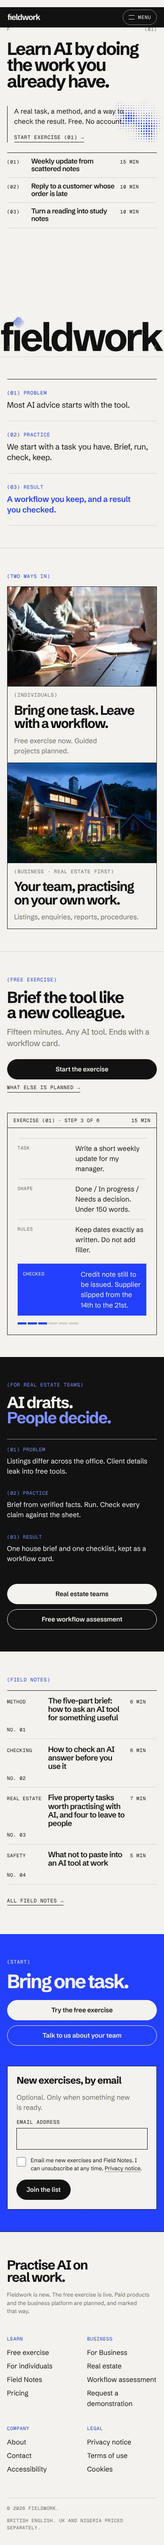
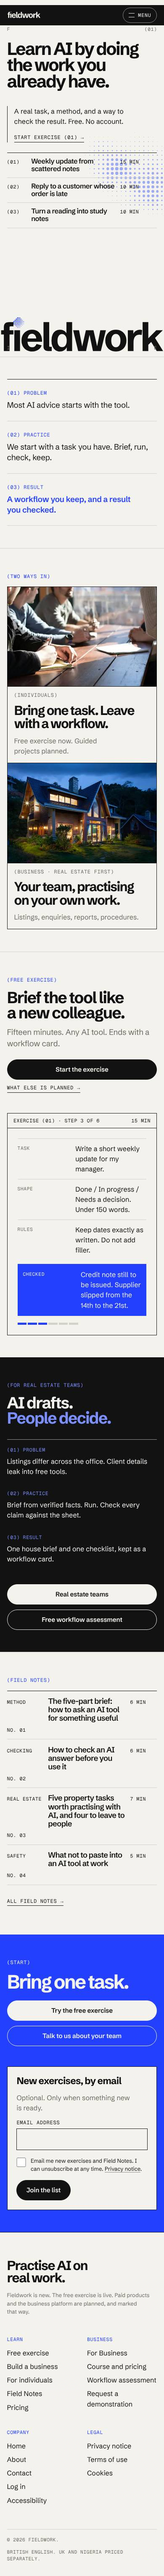
Round 5: docs, QA reports and screenshots updated; builder focus fix; hero alignment

Changed region(s): [[0.0, 0.1248, 1.0, 0.9987], [0.0308, 0.0, 1.0, 0.0936], [0.1846, 0.9675, 0.2154, 0.9987]]

diff --git a/src/styles/pages.css b/src/styles/pages.css
@@ -24,7 +24,7 @@
 .page-hero--wide h1 { max-width: 17ch; }
 .page-hero__dots { position: absolute; z-index: 0; right: -8%; top: 0; width: min(50vw, 44rem); pointer-events: none; opacity: 0.9; }
 .page-hero .lede { max-width: 30rem; }
-.page-hero__grid { display: grid; gap: var(--s-6); align-items: end; }
+.page-hero__grid { display: grid; gap: var(--s-6); align-items: start; }
 @media (min-width: 62rem) { .page-hero__grid { grid-template-columns: minmax(0, 1.4fr) minmax(0, 1fr); gap: var(--s-8); } }
 .badge-line { display: flex; flex-wrap: wrap; gap: var(--s-2) var(--s-3); align-items: center; margin-bottom: var(--s-4); }
 .hero__note { font: 400 0.72rem/1.5 var(--font-mono); letter-spacing: 0.05em; text-transform: uppercase; color: var(--grey); margin-top: var(--s-4); max-width: 34rem; }

diff --git a/src/components/build/BusinessBuilder.tsx b/src/components/build/BusinessBuilder.tsx
@@ -23,7 +23,8 @@ export function BusinessBuilder() {
   const { session } = useSession();
   const palette = PALETTES.find((p) => p.id === b.brand.palette) ?? PALETTES[0];
 
-  useEffect(() => { headingRef.current?.focus(); }, [step]);
+  const firstRun = useRef(true);
+  useEffect(() => { if (firstRun.current) { firstRun.current = false; return; } headingRef.current?.focus(); }, [step]);
   const patch = (f: (s: BuilderState) => BuilderState) => { if (!started.current) { started.current = true; track('builder_started'); } setB(f); };
   const toggle = (list: string[], v: string) => (list.includes(v) ? list.filter((x) => x !== v) : [...list, v]);
 

diff --git a/docs/website/SEO-KEYWORD-MAP.md b/docs/website/SEO-KEYWORD-MAP.md
@@ -22,7 +22,7 @@ Intent key: I = informational, C = commercial investigation, T = transactional/l
 | `/learn` | AI exercise free; free AI practice | I | both | not measured |
 | `/learn/first-workflow` | free AI exercise; AI prompt template for work; how to write a good AI prompt; five-part prompt; reusable AI workflow | I/T (signup) | both | not measured |
 | `/business` | AI training for employees; AI training for teams; practical AI training for staff | C/T | UK: "AI training for staff UK"; Nigeria: "AI training for companies Nigeria" (**verify**) | not measured |
-| `/business/real-estate` | AI training for estate agents; AI for letting agents; AI for property listings; AI for real estate teams | C/T | UK: estate agents, letting agents, lettings; Nigeria: real estate firms, property agents (terms differ; **verify**) | not measured |
+| `/business` | AI training for estate agents; AI for letting agents; AI for property listings; AI for real estate teams | C/T | UK: estate agents, letting agents, lettings; Nigeria: real estate firms, property agents (terms differ; **verify**) | not measured |
 | `/business/assessment` | AI readiness assessment real estate; AI workflow assessment for agencies | C/T | both | not measured |
 | `/pricing` | (mostly navigational, low SEO value; keep honest) | N | both | not measured |
 | `/field-notes` | practical AI guides; AI tips for work | I | both | not measured |
@@ -43,7 +43,7 @@ The root layout template is `'%s | Fieldwork'`; the home page title renders with
 | `/learn` | Learn: the free exercise and what is planned \| Fieldwork | 56 | 136 | ok |
 | `/learn/first-workflow` | Free exercise: turn a messy task into a reusable AI workflow \| Fieldwork | 72 | 157 | long |
 | `/business` | Fieldwork for Business: practical AI training for your team \| Fieldwork | 71 | 179 | long; brand repeated |
-| `/business/real-estate` | AI training for real estate teams: listings, enquiries, procedures \| Fieldwork | 78 | 188 | long |
+| `/business` | AI training for real estate teams: listings, enquiries, procedures \| Fieldwork | 78 | 188 | long |
 | `/business/assessment` | Real estate AI workflow assessment \| Fieldwork | 46 | 179 | ok |
 | `/pricing` | Pricing and availability \| Fieldwork | 36 | 134 | ok |
 | `/field-notes` | Field Notes: practical AI guides \| Fieldwork | 44 | 135 | ok |
@@ -73,7 +73,7 @@ Today: 4 notes, all published 2026-10-14. A cluster plan, ordered by usefulness 
 
 **Pillar C: Real estate (business)**
 - Existing: `property-ai-tasks`. Planned: "Viewing feedback to vendors: a safe workflow"; "Listing copy from verified facts: a checklist"; "What to write in an AI-use policy for an estate agency" (no legal advice; point to a solicitor/professional body); "New-starter checklists from your procedures".
-- Internal links: to `/business/real-estate`, `/business/assessment`.
+- Internal links: to `/business`, `/business/assessment`.
 
 **Pillar D: Tool choice (planned, only after testing)**
 - Planned series "Choosing a tool for one task". Rule: publish only what was actually tested, with date and version; the brand strategy forbids implying untested comparisons.
@@ -86,7 +86,7 @@ Cadence: set by what the founder can maintain without quality loss. Not measured
 ## 5. Internal linking rules
 
 1. Every Field Note links to the free exercise (a `consumer_cta_clicked` label `article` button exists) and to at least one related note (`related` field).
-2. Real estate content links to `/business/real-estate`, then the assessment.
+2. Real estate content links to `/business`, then the assessment.
 3. `/pricing` links to the exercise, assessment and contact. The platform is mentioned only as "planned".
 4. Legal and utility pages stay in the footer, not in the body.
 5. Avoid orphaning `/learn`: it is not in the header or footer navigation (see IA doc).
@@ -101,7 +101,7 @@ None is emitted today (no `ld+json` in `src`). Suggested, once a domain and lega
 | Site-wide | `Organization` (name, url, logo from `public/brand/...`, sameAs for real social URLs only) and `WebSite` | Do not add `Organization` details (address, contact points) until real and confirmed |
 | `/field-notes/[slug]` | `Article` (headline, datePublished, dateModified, author as Organization or named person, image) | Author must be real; do not invent a person |
 | `/learn/first-workflow` | `HowTo` is largely deprecated for rich results (**verify**); use `WebPage`/`LearningResource` only if useful | Do not mark up anything not visible on the page |
-| `/business/real-estate`, `/business` | `Service` (areaServed UK, Nigeria) | Only when services are actually offered and legal entity is set; no price |
+| `/business`, `/business` | `Service` (areaServed UK, Nigeria) | Only when services are actually offered and legal entity is set; no price |
 | Breadcrumbs | `BreadcrumbList` on nested pages | Match visible breadcrumbs if added |
 | FAQs | `FAQPage` is limited in visibility today (**verify**); do not add for rich results |
 | Never | `Review`/`AggregateRating`, `Product` with price, `Course` with fabricated provider/offers | No reviews or products exist |

diff --git a/qa/FINAL-QA-REPORT.md b/qa/FINAL-QA-REPORT.md
@@ -1,20 +1,23 @@
 # Final QA report
 
-Run on 17 October 2026 (after the Concept 2 rebuild) against a production build (`next build`, `next start`) in Chromium (Playwright 1.56). Raw results: `browser-results.json`, `axe-results.json`, `link-results.json`. Screenshots: `screenshots/` (1440 and 390 wide). Re-run commands: `docs/operations/QA-HOW-TO-RERUN.md`.
+Run on 18 October 2026 (after the round 5 changes: entry page, transitions, business page, pricing, login, dashboards, builder, pop-ups) against a production build (`next build`, `next start`) in Chromium (Playwright 1.56). Raw results: `browser-results.json`, `axe-results.json`, `link-results.json`. Screenshots: `screenshots/` (1440 and 390 wide). Re-run commands: `docs/operations/QA-HOW-TO-RERUN.md`.
 
 ## Results
 | Check | Command | Result |
 |---|---|---|
 | Type check | `npm run typecheck` | Pass |
 | Lint | `npm run lint` | Pass, 0 errors, 0 warnings |
-| Unit tests | `npm test` | 26 of 26 pass (assessment logic, validation, design tokens match palette) |
+| Unit tests | `npm test` | 36 of 36 pass (assessment logic, validation, design tokens match palette) |
 | Production build | `npm run build` | Pass, 25 static pages |
-| Browser behaviour | `node scripts/qa/browser-tests.mjs` | 18 of 18 pass |
-| Accessibility (axe, WCAG 2.0/2.1/2.2 A and AA) | `node scripts/qa/axe.mjs` | 0 violations, 20 routes x 2 viewports |
-| Links and anchors | `node scripts/qa/links.mjs` | 19 pages crawled, 0 problems |
+| Browser behaviour | `node scripts/qa/browser-tests.mjs` | 31 of 31 pass |
+| Accessibility (axe, WCAG 2.0/2.1/2.2 A and AA) | `node scripts/qa/axe.mjs` | 0 violations, 25 routes x 2 viewports |
+| Links and anchors | `node scripts/qa/links.mjs` | 22 pages crawled, 0 problems |
 | Horizontal overflow | `node scripts/qa/overflow.mjs` | None at 390, 768, 1440 on any route |
 
 ## What the browser tests prove
+Round 5 adds: the entry page routes to individuals and business; a loading animation of about a second runs between pages and is skipped with reduced motion; `/business/real-estate` redirects to `/business`; the business page sections are in the requested order and include the USA; the business pop-up appears at 10 seconds and the individuals pop-up at 15 (tested with a fake clock) and each leads to the right page; the course page shows every plan in GBP, NGN and USD; the pricing page puts individuals first; the individuals page has the new hero, build call to action, what we do, more everyday uses and pricing with the photo and list centred together; login (honest not-connected notice, demo mode) leads to the business dashboard; the full Build a business flow runs through to login and the workspace, where documents and Ask AI are locked until the paid preview.
+
+Earlier:
 Every route returns 200 with one h1, a title, no console errors and no broken images; custom 404 with a 404 status; logo returns home; desktop and mobile navigation; Escape closes the mobile menu; skip link and visible focus; reduced motion shows content; the free exercise runs start to finish (copy prompt to clipboard, download the workflow card, state kept in the browser); the assessment produces a report; the market toggle switches GBP and NGN; the contact form validates and, with no adapter configured, says plainly that nothing was saved; a business demo request reaches a mock webhook with the secret header and payload; honeypot submissions are not delivered; the site is noindex by default; no tracker loads without configuration and consent.
 
 ## Defects found and fixed in this round
@@ -24,6 +27,7 @@ Horizontal overflow on the exercise page at 390px; scrollable tables not keyboar
 Real devices; Safari and Firefox; screen readers (VoiceOver, NVDA, TalkBack) and disabled users; slow or lossy networks (the page is light by design but was not throttled); a real deployed environment; a real lead adapter (only a local mock webhook); Resend delivery; analytics with a real provider; load or abuse testing (the rate limiter is in-memory and best-effort); legal correctness of any page; print stylesheets beyond a spot check.
 
 ## Known open items
+0. Login with Google, LinkedIn and Apple is not connected (demo session only); the dashboards, AI assistant and "Ask AI" are previews; the builder uses a curated list and fixed rules, not an AI model; payments are not connected. See `docs/operations/KNOWN-LIMITATIONS-AND-FUTURE-WORK.md` (R5-01 to R5-09).
 1. No email platform or unsubscribe flow exists, although forms say you can unsubscribe. Launch is blocked until one is connected.
 2. Some page titles exceed 60 characters and some descriptions 160; shorter versions are proposed in `docs/website/SEO-METADATA-CHECKLIST.md`.
 3. `NEXT_PUBLIC_LEGAL_ADDRESS` and `NEXT_PUBLIC_COMPANY_NUMBER` are read but no page displays them yet.

diff --git a/docs/FINAL-REPORT.md b/docs/FINAL-REPORT.md
@@ -7,6 +7,11 @@ Branch `claude/exciting-maxwell-l5r45m` of `keneokonjo-web/fieldwork`. Packaged 
 - **Website:** all 19 routes rebuilt on Concept 2: black top bar as navigation (wordmark, pages, slogan), the concept's hero (corner marks, dot terrain, index of starter tasks, giant cropped wordmark), hairline index lists, Problem / Practice / Result rows, short copy throughout. Free guided exercise, workflow assessment, GBP/NGN pricing toggle, Field Notes (4 articles), legal drafts, custom 404, and 29 licensed stock photographs in hairline cells. Tested: typecheck, lint, 26 unit tests, production build, 18 browser behaviour tests, axe 0 violations, link crawl, overflow checks. Details: `qa/FINAL-QA-REPORT.md`, `qa/DESIGN-REVIEW.md`.
 - **Documents written:** brand strategy; design tokens and website design brief (updated to Concept 2); consumer marketing (strategy, 30-day calendar, video kit, social kit, 5 email sequences, pricing assumptions, funnel and metrics, workflow, trackers); corporate sales kit (capability statement, one-pager, 14-slide deck as PPTX, discovery and demo guides, proposal and SOW templates, pricing assumptions, objections, outreach, follow-ups, marketing plan, partnership pack, CRM and pipeline templates); product and operations (PRD for the future onboarding platform, sitemap, architecture, exercise spec, roadmap, SEO keyword map and checklist, analytics spec, deployment guide, domain/DNS/email/social guide, legal review list, launch checklist, repository guide, asset inventory, dependencies, limitations register, CRM definitions, attribution guide, QA re-run guide). PDFs built for the documents that get sent to people. Marketing and sales documents that mention colours and fonts were updated to the new brand; their copy was otherwise not rewritten.
 
+### Round 5 (18 October 2026)
+Entry page (choose individual or business) at `/`, with the previous home at `/home`; a one-second loading animation between pages; `/business` is now the real estate page (sections reordered, USA added, text moved up) and `/business/real-estate` redirects to it; `/business/course` explains the course and shows the business pricing set by the founder (Starter £25, Team £18, Business bundle £12, Enterprise quoted, a £250 to £500 pilot, add-ons) for the UK, Nigeria and the USA; the pricing page shows individuals first; the individuals page was redesigned (new hero, Build a business, what we do, more everyday uses, pricing); pop-ups on both audience pages; login with Google, LinkedIn and Apple buttons (not connected; demo mode); a business dashboard; Build a business (free builder with idea generator, refinement, opportunity assessment, logo and palette choice, product, website outline, sales and operations, launch) and a project workspace with a checklist and locked paid areas. Tested: 36 unit tests, 31 browser tests, axe 0 violations on 25 routes, link crawl, overflow.
+
+**Needs the founder:** USD prices and some NGN prices are proposed (see `docs/sales/BUSINESS-PRICING.md`); the 16 to 50 employee range has no plan; what individuals pay for the full builder (£19 a month is a placeholder); where the individual login should land (currently the workspace); "Basque AI" was read as "Ask AI". Nothing is connected: no real login, accounts, payments, AI assistant or email list.
+
 ## 2. Prepared but not connected
 Lead capture adapters (webhook, Resend, dev file) are coded and the webhook path is tested against a local mock; none is connected to a real destination, so live forms honestly report "not connected". Analytics is coded, consent-gated and off until a domain is configured. Indexing is off until a URL and a flag are set. Payments are not integrated. No email list platform exists.
 

diff --git a/docs/product/SITEMAP-AND-INFORMATION-ARCHITECTURE.md b/docs/product/SITEMAP-AND-INFORMATION-ARCHITECTURE.md
@@ -11,7 +11,7 @@ Derived from `src/app/**`, `src/config/site.ts` (navigation), `src/app/sitemap.t
 | `/learn` | `learn/page.tsx` | static | Hub: free exercise now, planned guided projects | Start first workflow | yes |
 | `/learn/first-workflow` | `learn/first-workflow/page.tsx` | static shell + client component | The free interactive exercise | Complete exercise; email form at end | yes |
 | `/business` | `business/page.tsx` | static | Business offer, three engagement sizes, platform "is a plan" | Request demonstration (`/contact?topic=business`); assessment | yes |
-| `/business/real-estate` | `business/real-estate/page.tsx` | static | Real estate vertical: seven workflows, pilot outline | Demo; assessment | yes |
+| `/business` | `business/real-estate/page.tsx` | static | Real estate vertical: seven workflows, pilot outline | Demo; assessment | yes |
 | `/business/assessment` | `business/assessment/page.tsx` | static shell + client component | Five-minute self-assessment, on-screen report, optional demo request | Complete assessment | yes |
 | `/pricing` | `pricing/page.tsx` | static + client toggle | Honest availability, UK GBP / Nigeria NGN test prices, business scoping, platform waitlist | Free exercise; early access; business contact | yes |
 | `/field-notes` | `field-notes/page.tsx` | static | Article index | Read an article | yes |
@@ -48,7 +48,7 @@ Total public pages: 15 fixed + 4 articles = 19, plus the 404 (matches `qa/link-r
 │   └─ /learn (hub)
 │       └─ /learn/first-workflow   [free exercise]
 ├─ /business
-│   ├─ /business/real-estate
+│   ├─ /business
 │   └─ /business/assessment
 ├─ /pricing
 ├─ /field-notes
@@ -66,7 +66,7 @@ Total public pages: 15 fixed + 4 articles = 19, plus the 404 (matches `qa/link-r
 | Audience | Entry points | Path to conversion |
 |---|---|---|
 | Individual (UK / Nigeria) | `/`, `/individuals`, Field Notes (search/social) | free exercise -> email form -> (future) paid project |
-| Business (real estate) | `/business`, `/business/real-estate`, `property-ai-tasks` note | assessment -> demo request, or contact -> demo request |
+| Business (real estate) | `/business`, `/business`, `property-ai-tasks` note | assessment -> demo request, or contact -> demo request |
 | Both/curious | `/about`, `/pricing` | free exercise or business contact |
 
 ## 5. Conversion points and where they live
@@ -96,3 +96,15 @@ Lead type `business_enquiry` and `assessment_report` are defined in `src/lib/val
 2. A dedicated `/business/onboarding` page is deliberately absent; the platform is not built. Keep the explanation inside `/business` and `/pricing`.
 3. Future pages not yet built: Nigeria-specific landing page(s), guided project pages, a public changelog, press/brand page, thank-you pages for conversion tracking. Not in scope until needed.
 4. Real estate is the only vertical page. Recruitment and others are noted as later in the brand strategy and are not on the site.
+
+## Changes on 18 October 2026
+| Route | Change |
+|---|---|
+| `/` | Now the entry page: choose individual (to `/individuals`) or business (to `/business`) |
+| `/home` | The previous home page; the logo links here |
+| `/business` | Now the real estate page (the earlier business overview page was removed). `/business/real-estate` redirects here permanently |
+| `/business/course` | New: how the real estate course works, and business pricing for the UK, Nigeria and the USA |
+| `/business/dashboard` | New: demo business dashboard (noindex) |
+| `/build` | New: Build a business (free builder) |
+| `/individuals/dashboard` | New: demo project workspace (noindex) |
+| `/login` | New: individual or business, then provider buttons and demo mode (noindex) |

diff --git a/docs/operations/KNOWN-LIMITATIONS-AND-FUTURE-WORK.md b/docs/operations/KNOWN-LIMITATIONS-AND-FUTURE-WORK.md
@@ -117,10 +117,24 @@ Things that are only **prepared, not proven**: the Resend adapter (never run aga
 
 ## Notes on selected items
 
-- **DF-01 (OG image path)**: `src/lib/metadata.ts` uses `/brand/og/og-default.png`. The existing build output contains the same wrong URL. Every social link preview would show no image. One-line fix.
+- **DF-01 (OG image path), fixed 17 October 2026**: `src/lib/metadata.ts` used `/brand/og/og-default.png`; it now points at `/brand/social/og-default.png`. Original note: it used `/brand/og/og-default.png`. The existing build output contains the same wrong URL. Every social link preview would show no image. One-line fix.
 - **NC-06 (email list)**: the forms say "I can unsubscribe at any time" but there is no list platform. Do not send any marketing email, and do not claim a list exists, until one is set up with unsubscribe handling and the consent wording is reviewed.
 - **NR-04**: `src/app/accessibility/page.tsx` says "The full results are in the project's QA report", but `qa/` contains only JSON results and screenshots. Either publish a short QA summary or change the sentence.
 - **PA-03**: the browser test exercises later exercise steps functionally, but axe is run only on initial page loads.
 - **SE-01/SE-02**: security header set is minimal by design (see `TECHNICAL-ARCHITECTURE.md` section 7).
 - **NB-07/NB-08**: reserved names in the code that nothing uses; harmless but do not document them as features.
 - Market statements in other documents (competitor prices, SEO volumes, regulator procedures) are not verified; each is marked "verify" where it appears.
+
+## Round 5 additions (18 October 2026)
+
+| ID | Item | Status | Priority | Dependency |
+|---|---|---|---|---|
+| R5-01 | Log in with Google, LinkedIn and Apple is not connected. The login page offers a demo session stored in the browser only; no account is created and no password or token is handled | not connected | P1 | OAuth provider keys, an auth service, a database, privacy review |
+| R5-02 | Dashboards (business and individual workspace) are previews. Team accounts, progress tracking, saved workflow cards and the AI learning assistant are not built | not built | P1 | Auth, database, product decisions |
+| R5-03 | Build a business uses a curated idea list and fixed rules for the refined idea and the opportunity assessment. There is no AI model and no market data. "Ask AI" and the business-building assistant are not built | not built | P2 | AI provider, safety review |
+| R5-04 | The paid builder and all paid plans cannot be bought: no payment provider. The "Preview the paid view (demo)" toggle only shows layout | not connected | P1 | Payment provider, terms, refund policy |
+| R5-05 | USD prices, some NGN prices and the 16 to 50 employee range are proposed, not set (see `docs/sales/BUSINESS-PRICING.md`) | needs decision | P1 | Founder |
+| R5-06 | US content (Fair Housing, state privacy law) is general and unreviewed; the USA has no tested pilots, data or partners | needs review | P2 | US counsel, local research |
+| R5-07 | Page transition intercepts internal link clicks to show a one-second animation. It does not cover browser back and forward, and is skipped with reduced motion. The delay is deliberate and costs a second per navigation | design choice | P3 | none |
+| R5-08 | The pop-ups appear once per browser session after 10 s (business) and 15 s (individuals). Not A/B tested; may annoy returning visitors | design choice | P3 | Analytics evidence |
+| R5-09 | A custom logo uploaded in the builder is stored in the browser (limit 400 KB) and is never sent anywhere | by design | P3 | none |

diff --git a/docs/sales/BUSINESS-PRICING.md b/docs/sales/BUSINESS-PRICING.md
@@ -1,0 +1,36 @@
+# Business pricing (current)
+
+Set by the founder on 18 October 2026 for the GBP and NGN figures marked **set**. Figures marked **proposed** were filled in to keep the three markets consistent and need the founder's confirmation. Payments are not connected; nothing is on sale until a payment provider and terms are in place. The same data drives the website (`src/content/pricing.ts`, shown on `/pricing` and `/business/course`) and is covered by `tests/builder.test.ts`.
+
+## Plans (per employee, per month)
+| Plan | Who | UK (GBP) | Nigeria (NGN) | USA (USD) | Minimum spend |
+|---|---|---|---|---|---|
+| Starter pack | Any team size | £25 (set) | ₦30,000 (set) | $30 (proposed) | None |
+| Team pack | 11 to 15 employees | £18 (set) | ₦22,000 (set) | $22 (proposed) | £200 a month (set); ₦242,000 and $250 (proposed) |
+| Business bundle | 51 to 200 employees | £12 (set) | ₦14,500 (proposed) | $15 (proposed) | £500 a month (set); ₦600,000 and $650 (proposed) |
+| Enterprise | 200 or more employees | Quoted | Quoted | Quoted | Quoted |
+
+**Gap:** 16 to 50 employees is not covered by a plan. The site says it is quoted, priced between Team and Business, until the founder decides.
+
+**Included**
+- Starter: access to the relevant industry course; AI guided exercises and assessments; personal workflow library; basic completion tracking.
+- Team: everything in Starter; manager dashboard and team progress reports; multiple learning paths; quarterly updates.
+- Business bundle: everything in Team; department-specific learning paths; more detailed reporting; priority support; scheduled programme reviews.
+- Enterprise: priced on employee number, security requirements, integrations, reporting and support commitments.
+
+## Low-risk corporate pilot
+30-day team pilot: one team of up to 10 employees, one training pathway, a closing progress report. **£250 to £500** (set); ₦300,000 to ₦600,000 and $300 to $650 (proposed). The fee can be credited towards an annual contract if the customer approves within an agreed period (period to be agreed).
+
+## Optional premium add-ons
+| Add-on | GBP (set) | NGN (proposed) | USD (proposed) |
+|---|---|---|---|
+| 60-minute group Q&A | £150 | ₦180,000 | $190 |
+| 90-minute tailored workshop | £350 to £600 | ₦420,000 to ₦720,000 | $450 to $750 |
+| Bespoke industry training module | £500 to £1,500 | ₦600,000 to ₦1,800,000 | $650 to $1,900 |
+| Custom workflow implementation | Quoted separately | Quoted separately | Quoted separately |
+
+## Individuals (for reference)
+Free exercise and the basic Build a business flow are free. Guided project £14 one-off, membership £9 a month and the full Business Builder £19 a month (placeholder test prices, not on sale); NGN equivalents are set separately in `src/content/pricing.ts`.
+
+## Open decisions
+USD figures; NGN figures marked proposed; the 16 to 50 employee range; the pilot credit period; whether pilot and plans are billed monthly or annually; refund terms; VAT treatment per market (verify with an accountant).

diff --git a/docs/website/ANALYTICS-EVENT-SPEC.md b/docs/website/ANALYTICS-EVENT-SPEC.md
@@ -51,7 +51,7 @@ Notes
 | Funnel | Steps (events) |
 |---|---|
 | Free exercise | page view `/learn/first-workflow` -> `free_experience_started` -> `step_completed` (step = "Write the brief") -> `step_completed` (step = "Check it") -> `free_experience_completed` -> `email_signup_submitted` (location `free-exercise-complete`) |
-| Business | page view `/business` or `/business/real-estate` -> `business_cta_clicked` -> page view `/contact` or `/business/assessment` -> `assessment_started` -> `assessment_completed` -> `demo_request_submitted` |
+| Business | page view `/business` or `/business` -> `business_cta_clicked` -> page view `/contact` or `/business/assessment` -> `assessment_started` -> `assessment_completed` -> `demo_request_submitted` |
 | Email list | `email_signup_submitted` by `location`: `home-final`, `individuals`, `pricing`, `pricing-platform`, `free-exercise-complete` |
 
 Provider-specific custom properties usually need registering in the provider's settings (**verify** for the chosen provider).
@@ -80,3 +80,12 @@ Provider-specific custom properties usually need registering in the provider's s
 ## 8. QA
 
 Tested: no analytics script requests without configuration or consent (browser test). Not tested: events arriving at a real provider; banner behaviour with analytics configured (needs `NEXT_PUBLIC_PLAUSIBLE_DOMAIN` set at build time; the QA scripts do not set it). Test plan: set the variable on a preview, grant consent, trigger each event, confirm in the provider's live view, then decline and confirm nothing is sent.
+
+## Added 18 October 2026
+| Event | Fires when | Properties | Where |
+|---|---|---|---|
+| `builder_started` | First edit in Build a business | none | `BusinessBuilder.tsx` |
+| `builder_launch_clicked` | "Launch and improve" pressed | none | `BusinessBuilder.tsx` |
+| `popup_cta_clicked` | The call to action in a timed pop-up is clicked | `location=popup`, `label` = storage key | `TimedPopup.tsx` |
+| `login_started` | Log in link clicked, or a role chosen on the login page | `audience` | header, `LoginPanel.tsx` |
+| `pricing_viewed` | Now also fires on the business pricing component | `audience=business` | `BusinessPricing.tsx` |

diff --git a/docs/website/SEO-METADATA-CHECKLIST.md b/docs/website/SEO-METADATA-CHECKLIST.md
@@ -20,8 +20,8 @@ Version 0.1, 14 October 2026. Status values: Done (in code and visible in the ex
 | # | Check | Status | Action |
 |---|---|---|---|
 | B1 | One unique title and description per page | Done | `pageMetadata()` on every page; see SEO-KEYWORD-MAP section 3 |
-| B2 | Titles at or under about 60 chars | Open | Over: `/individuals` 66, `/learn/first-workflow` 72, `/business` 71, `/business/real-estate` 78, `five-part-brief` 75, `property-ai-tasks` 85 |
-| B3 | Descriptions at or under about 160 chars | Open | Over: `/individuals` 205, `/business` 179, `/business/assessment` 179, `/business/real-estate` 188 |
+| B2 | Titles at or under about 60 chars | Open | Over: `/individuals` 66, `/learn/first-workflow` 72, `/business` 71, `/business` 78, `five-part-brief` 75, `property-ai-tasks` 85 |
+| B3 | Descriptions at or under about 160 chars | Open | Over: `/individuals` 205, `/business` 179, `/business/assessment` 179, `/business` 188 |
 | B4 | No duplicated brand in title | Open | `/about` and `/contact` render "About Fieldwork \| Fieldwork" and "Contact Fieldwork \| Fieldwork"; also `Fieldwork for Individuals ... \| Fieldwork` |
 | B5 | Home title has no suffix (intentional) | Done | Build output |
 | B6 | Description matches page promise; no unverifiable claims | Done (reviewed by reading) | Re-check on any copy change. "Free 15-minute" duration is an estimate |
@@ -31,7 +31,7 @@ Candidate shortened titles (suffix ` | Fieldwork` is added by the template; keep
 - `/individuals`: "Learn AI through real tasks" 
 - `/learn/first-workflow`: "Free AI exercise: build a reusable workflow"
 - `/business`: "Practical AI training for your team"
-- `/business/real-estate`: "AI training for real estate teams"
+- `/business`: "AI training for real estate teams"
 - `/about`: "About us" (renders "About us | Fieldwork")
 - `/contact`: "Contact"
 - `five-part-brief`: "The five-part brief for AI tools"

diff --git a/qa/DESIGN-REVIEW.md b/qa/DESIGN-REVIEW.md
@@ -33,3 +33,13 @@ Reviewed from real screenshots in `qa/screenshots/` (Chromium, 1440 and 390 wide
 - Corner letters on inner pages spell route fragments (IND, BUS, REA) and may read as arbitrary; revisit.
 - The sales deck PPTX is functional, not polished, and needs a designer's pass.
 - Not tested: real devices, Safari, Firefox, screen readers, slow networks, users.
+
+## Round 5 review (18 October 2026)
+Reviewed from screenshots at 1440 and 390 wide.
+- **Entry page:** two large cells (white and ink), dot terrain and the giant wordmark. Clear and quick; the wordmark is cropped at the bottom of the first screen on purpose.
+- **Individuals hero:** the heading and graphic the founder disliked were replaced with "Put AI to work for you.", a photograph, and a cobalt Build a business button as the main action.
+- **Business hero:** text now starts at the top of the hero instead of centring against the tall photo, which removed the blank space above it.
+- **Everyday uses:** photo and list share one centre line; checked by a test.
+- **Pricing:** four business plans in one hairline grid with Enterprise in ink, then the pilot and add-ons. Dense but scannable; on phones the plans stack.
+- **Loading animation:** the target icon draws itself over about a second. It is a deliberate cost of one second per page.
+- **Weaknesses:** the pricing grid is text-heavy; the pop-ups sit over page content and could annoy returning visitors; the builder is long on small screens; dashboards are basic and unconnected; the builder logo presets are generic.

diff --git a/docs/product/WEBSITE-DESIGN-BRIEF.md b/docs/product/WEBSITE-DESIGN-BRIEF.md
@@ -26,3 +26,11 @@ Square cells, hairlines, pill buttons only. No shadows, no serif, no italics, no
 
 ## Accessibility and performance
 Contrast measured and guarded (grey on wash uses a darker grey). Focus outline 3px. Reduced motion respected. One font family plus one mono. Dot terrain is static SVG (about 25 KB each); photographs are optimised by Next at 2000px sources.
+
+## Added 18 October 2026
+- **Entry page** (`/`): "Who is it for?" with two cells, dot terrain and the giant wordmark. The old home is at `/home`.
+- **Top bar:** the slogan was replaced by a Log in link (Dashboard once signed in).
+- **Page transition:** a one-second animation of the target icon (ring draws, cross-hairs slide in, centre dot pops) between internal pages; skipped with reduced motion.
+- **Pop-ups:** ink card with the target icon, corner letter and two buttons; appear once per session (10 s on business, 15 s on individuals).
+- **Individuals page:** photo hero, a cobalt "Build a business" button as the primary action, "What we do", a Build a business band, everyday uses (photo and list centred together), pricing.
+- **Business page:** hero text aligned to the top; sections ordered: workflows, listing scenario, example pilot (UK, Nigeria, USA), what stays with people, photo band, next step.
